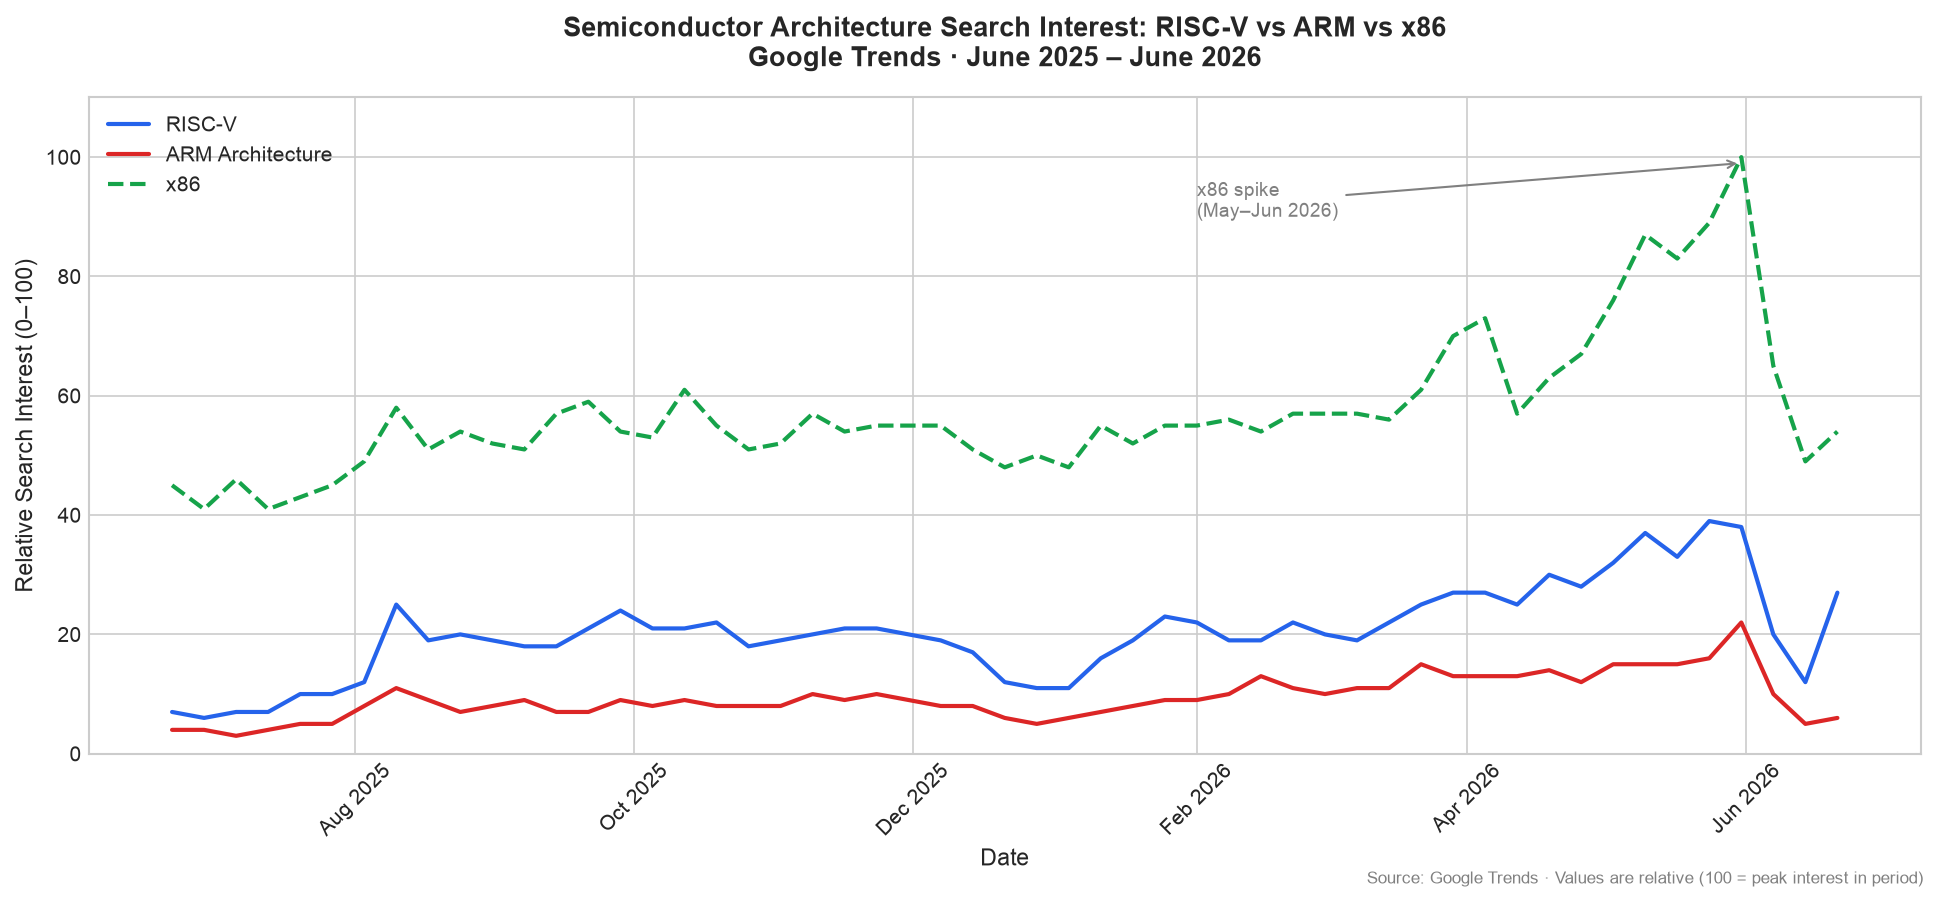
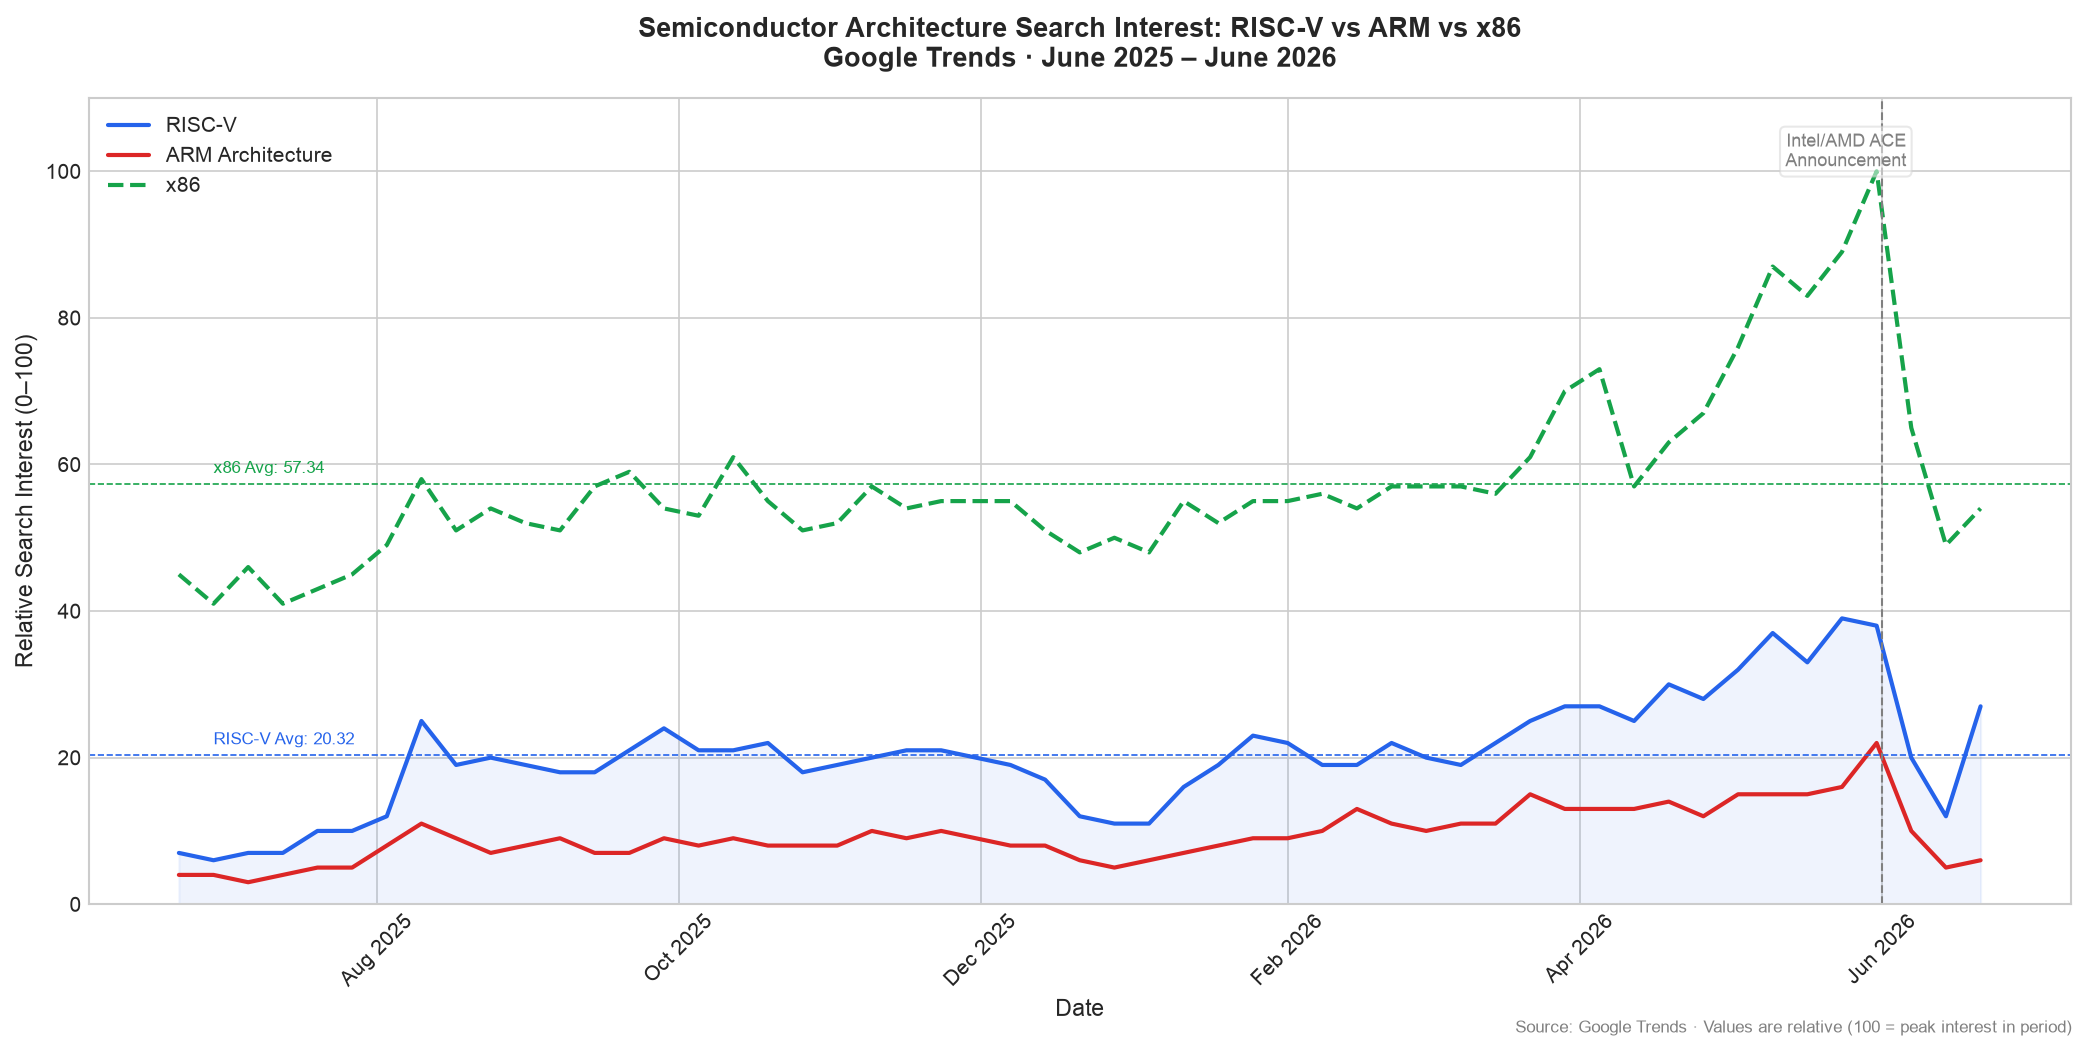
Average lines, RISC-V fill, ACE event marker

diff --git a/scripts/trend_visualization.py b/scripts/trend_visualization.py
@@ -2,28 +2,46 @@ import pandas as pd
 import matplotlib.pyplot as plt
 import matplotlib.dates as mdates
 
+#Keep improving
+
 # Load data
 df = pd.read_csv("data/trends.csv")
 df["date"] = pd.to_datetime(df["date"])
 
 
 plt.style.use("seaborn-v0_8-whitegrid")
-fig, ax = plt.subplots(figsize=(13, 6))
+fig, ax = plt.subplots(figsize=(14, 7))
 
 # Trend lines
 ax.plot(df["date"], df["RISC-V"],
         label="RISC-V", color="#2563EB", linewidth=2)
+#Shade testing
+ax.fill_between(df["date"], df["RISC-V"], color="#2563EB", alpha=0.07)
 ax.plot(df["date"], df["ARM architecture"],
         label="ARM Architecture", color="#DC2626", linewidth=2)
 ax.plot(df["date"], df["x86"],
         label="x86", color="#16A34A", linewidth=2, linestyle="--")
 
+#12 month average lines
+riscv_avg = df["RISC-V"].mean()
+x86_avg = df["x86"].mean()
+
+ax.axhline(riscv_avg, color="#2563EB", linestyle="--", linewidth=0.8)
+ax.axhline(x86_avg, color="#16A34A", linestyle="--", linewidth=0.8)
+
+#Labelling average lines
+ax.text(df["date"].iloc[1], riscv_avg + 1.5, f"RISC-V Avg: {riscv_avg:.2f}", color="#2563EB", fontsize=8)
+ax.text(df["date"].iloc[1], x86_avg + 1.5, f"x86 Avg: {x86_avg:.2f}", color="#16A34A", fontsize=8)
+
 # x86 Spike
-ax.annotate("x86 spike\n(May–Jun 2026)",
-            xy=(pd.Timestamp("2026-05-31"), 99),
-            xytext=(pd.Timestamp("2026-02-01"), 90),
-            arrowprops=dict(arrowstyle="->", color="gray"),
-            fontsize=9, color="gray")
+ace_date = pd.Timestamp("2026-06")
+ax.axvline(ace_date, color="gray", linestyle="--", linewidth=1)
+
+#Newlabel
+ax.text(ace_date + pd.Timedelta(days=5), 100, "Intel/AMD ACE\nAnnouncement", color="gray", 
+        fontsize=8.5, rotation=0, va="bottom", ha="right",
+        bbox = dict(boxstyle="round,pad=0.3", facecolor="white", edgecolor="lightgray", alpha=0.5))
+
 
 # Axis Formatting
 ax.xaxis.set_major_formatter(mdates.DateFormatter("%b %Y"))

diff --git a/README.md b/README.md
@@ -15,13 +15,13 @@ corresponding visualizations are produced, which allow us to identify when inter
 
 [Search Interest Chart](data/trends_chart.png)
 
-**RISC-V showing slow but upwards momentum
+###RISC-V showing slow but upwards momentum
 Search interest for RISC-V grew from ~7 (Jun 2025) to a peak of ~40 (Jun 2026). This is roughly a 471.43% increase in over 1 year. While causation and correlation are entirely different, this aligns with a growing adoption and preference towards customizability.
 
-**ARM search interest satying relatively flat
+###ARM search interest satying relatively flat
 Relative interest in ARM architecture as a search term stayed in the ~4–22 range throughout the period. This suggests that while ARM remains dominant in deployment, it is not generating new search-driven curiosity at the rate RISC-V is.
 
-**x86 Spiked sharply in May-June 2026, as result of ACE
+###x86 Spiked sharply in May-June 2026, as result of ACE
 Search interest for x86 surged from ~55 to a peak of 100 (the maximum relative score) in late May 2026, before dropping sharply. This spike correlates directly with Intel and AMD's joint announcement of ACE (AI Compute Extensions). ACE is an initiative to unify AI workloads on x86 CPUs. This kind of event-driven spike is distinct from an organic, sustained growth, but also represents opportunity and probable innovation in the x86 ecosystem.
 
 ## Notes